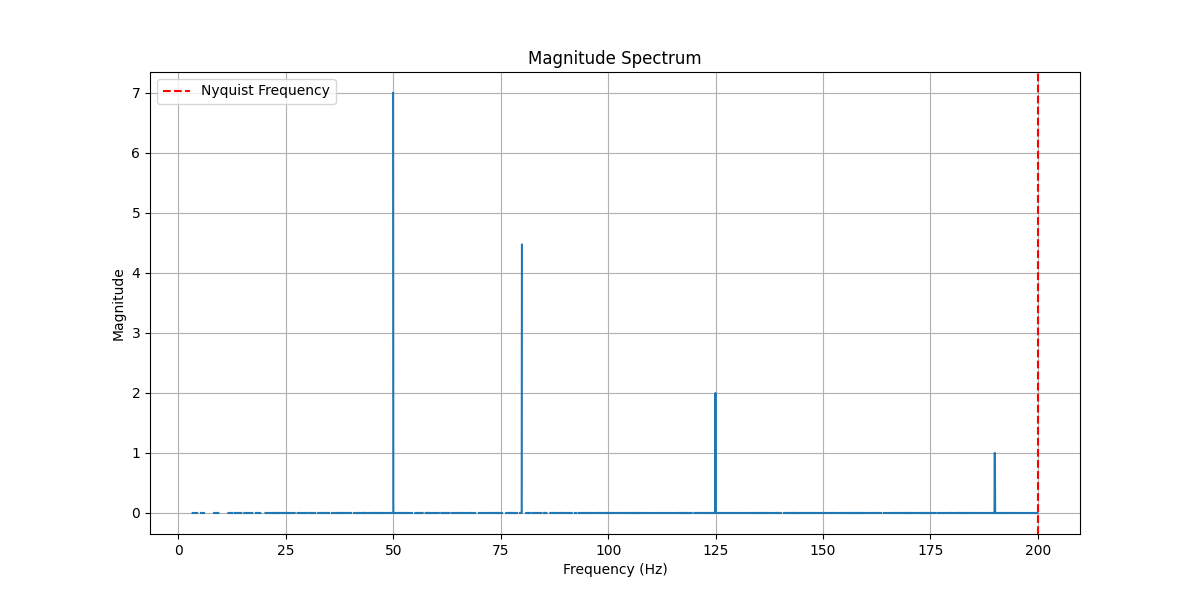
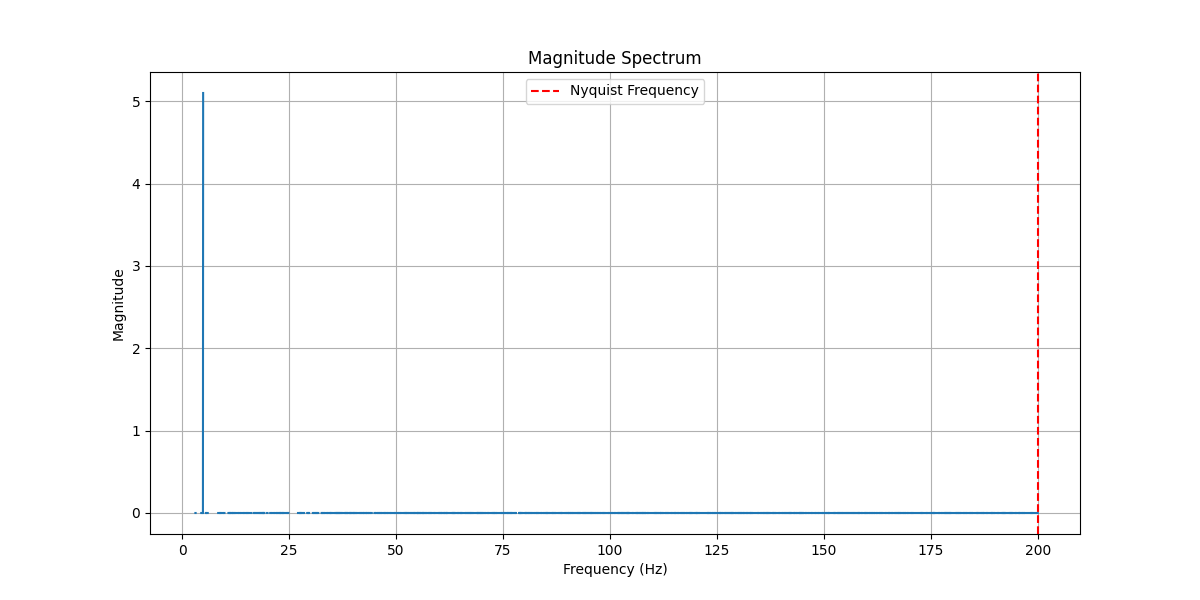
working spiral fft

diff --git a/Combined-Simulator/shiao/test_fft_interface.py b/Combined-Simulator/shiao/test_fft_interface.py
@@ -219,10 +219,10 @@ def sample_signals(num_signals, sample_window, num_samples, saveGraphs=False):
 
     # define a sampled function, and the sample
     def signal1(t):
-        frequencies = [10, 50, 80, 125]
-        amplitudes =  [50,  15,  15,  5]
-        # frequencies = [50, 100]
-        # amplitudes =  [5, 10]
+        # frequencies = [10, 50, 80, 125]
+        # amplitudes =  [20,  15,  15,  5]
+        frequencies = [5]
+        amplitudes =  [20]
         returnSignal = 0
         for i in range(len(frequencies)):
             returnSignal += amplitudes[i] * np.sin(2*np.pi*frequencies[i]*t)  
